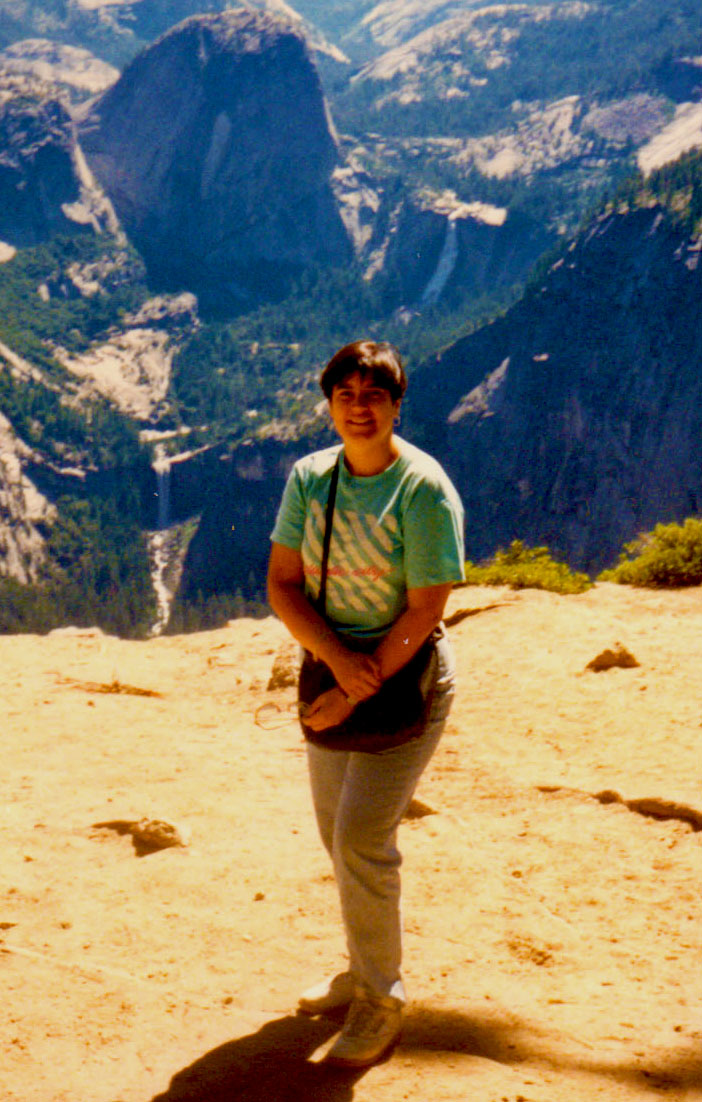
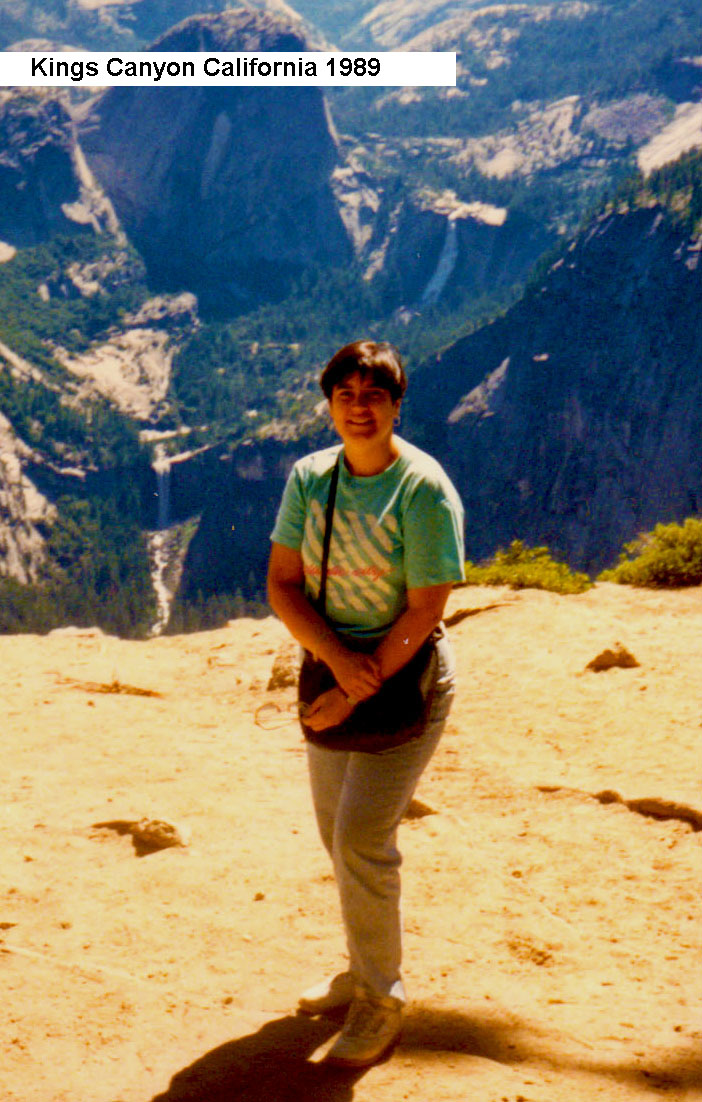
Added photo of Ana in 2006

Changed region(s): [[0.0, 0.0309, 0.6581, 0.0926]]

diff --git a/Ana.html b/Ana.html
@@ -19,9 +19,8 @@
 <p align="center"><b><font size="7">Ana María Romaguera~Casablanca&nbsp;</font></b></p>
 <p align="center"><b><font size="7">A Portrait of the Artist</font></b></p>
 <p align="center">&nbsp;</p>
-<p align="center"><img border="0" src="Ana1989 .jpg" width="444" height="606"><br>
-<b>Ana María in 1989 at Kings Canyon National Park in California&nbsp;&nbsp; </b></p>
-<p align="center">&nbsp;</p>
+<p align="center"><img border="0" src="zion.jpg" width="444" height="606"><img border="0" src="Ana1989 .jpg" width="444" height="606"><br>
+
 <p align="center"><b><font size="5">An early talent as an Artist in painting.&nbsp;</font></b></p>
 
          
